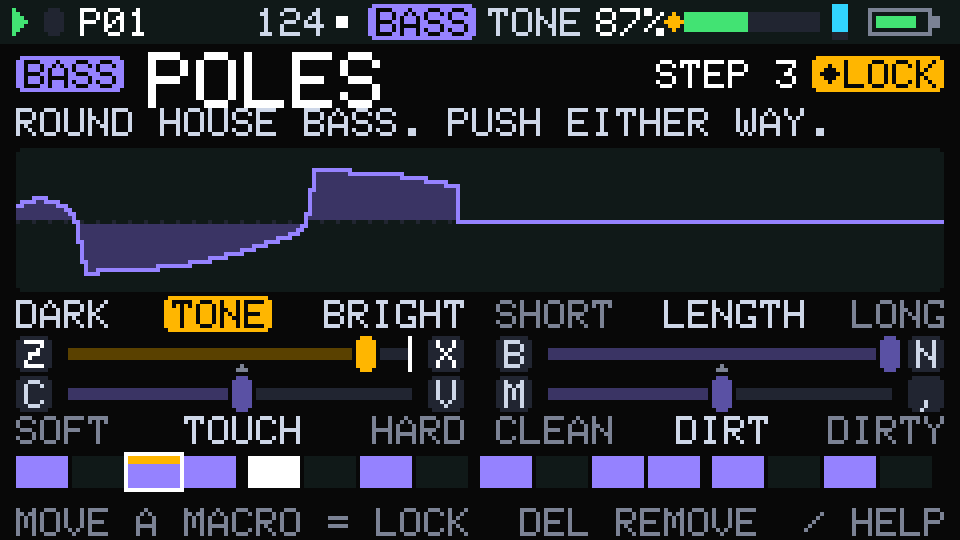
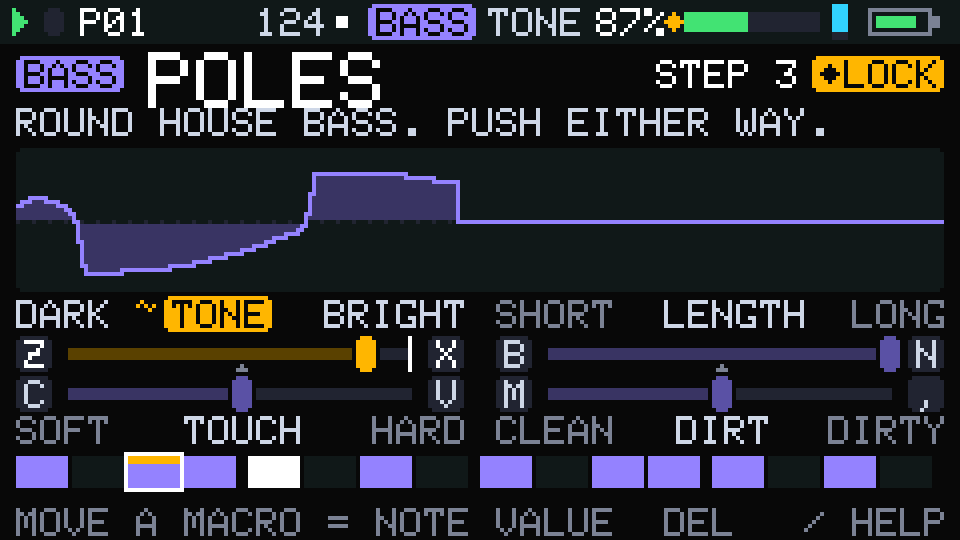
Instrument page: motion recording, sliders that follow, clear-motion gesture
- Recording: with record on and the transport running, moving a macro (keys,
  the lab) makes it live in the engine; the UI snapshots the pattern at the
  first move ("RECORDED MOTION"), so a pass is one undo unit with its notes.
  A live macro's name chip and handle are drawn in the record colour.
- While a pattern with motion plays, the sliders follow the engine's heard
  positions (EngineStatus::macroPos) with the base as the white mark; stopped,
  the page shows the base. A macro with motion in the shown pattern has an
  amber ~ by its name, also when stopped.
- Hold DEL + one of a macro's keys: that macro's values leave every note of
  the selected track in the shown pattern (WriteTrack, toast, CTRL+Z).
- STEP EDIT on an instrument track: the field is MOVE (marks for the macros
  the note has values of, the focused macro's value; its pad again: the next).
- Help rows and explain texts; screenshots docs/ux/motion-*.png,
  groove-motion.png, step-edit-motion.png (host/ui_scripts/motion.txt).
- itest_ui_instrument: motion on the page, recording pass and its undo, the
  clear gesture, under all three key-matrix models.

Claude-Session: https://claude.ai/code/session_0184BPLkX1vesFQsqL6SSkXY

diff --git a/host/itests/itest_ui_instrument.cpp b/host/itests/itest_ui_instrument.cpp
@@ -16,6 +16,10 @@
 //                 macro, one per macro (both keys: the default), in whole levels
 //                 of 63; DEL removes the focused macro's, then all; the STEP EDIT
 //                 MOTION field (its pad again: the next macro)
+//   motion        while playing the sliders follow the engine (the base stays);
+//                 a move of a macro with motion only moves its base; record on +
+//                 a held macro key = live (written into the notes passed, one
+//                 undo unit); hold DEL + a macro key clears its motion (undo)
 //   sweep         SHIFT+[ ] moves the bass's macro 1 (CLASSIC: the cutoff)
 //   help          key labels and explain texts of the page and its SHIFT layer
 #include <cstdio>
@@ -317,6 +321,82 @@ static void testLocks() {
   tap("space");
 }
 
+// Motion on the page: the sliders follow the engine while the pattern plays (the
+// base stays), the clear gesture (hold DEL + a macro key), a recording pass of a
+// moved macro (live: the chip in the record colour, written into the notes, one
+// undo unit).
+static void testMotion() {
+  newProjectOnBass();
+  const int p0 = MAC(kTrackBass, 0), p1 = MAC(kTrackBass, 1);
+  // two notes with their own OPEN, set by hand (hold the step, tap the macro key)
+  down("1"); R->run(300);
+  for (int i = 0; i < 20; ++i) tap("z");
+  up("1");
+  down("5"); R->run(300);
+  for (int i = 0; i < 20; ++i) tap("x");
+  up("5");
+  const int lo = R->step(kTrackBass, 0).macroValue(0), hi = R->step(kTrackBass, 4).macroValue(0);
+  CHECK(lo < p0 && hi > p0);
+  CHECK_EQ(R->ui.motionMask(kTrackBass), 1);
+  CHECK_EQ(R->ui.shownMacro(kTrackBass, 0), p0);  // stopped: the page shows the base
+  // playing: the slider follows the engine; the base does not move
+  tap("space");
+  int seenLo = 999, seenHi = -1, follow = 0, frames = 0;
+  for (int f = 0; f < 120; ++f) {
+    R->run(33);
+    const int v = R->ui.shownMacro(kTrackBass, 0);
+    seenLo = v < seenLo ? v : seenLo;
+    seenHi = v > seenHi ? v : seenHi;
+    ++frames;
+    // (the page shows the status of its last frame: within one frame's movement, ~11)
+    follow += std::abs(v - int(engine_detail::macroPosition(kTrackBass, 0) + 0.5f)) <= 16;
+  }
+  CHECK(seenLo <= lo + 2 && seenHi >= hi - 2);
+  CHECK(follow >= frames - 2);
+  CHECK_EQ(MAC(kTrackBass, 0), p0);
+  CHECK_EQ(R->ui.shownMacro(kTrackBass, 1), p1);  // no motion: its position
+  // a move of OPEN while the motion owns it: only its base
+  tap("x");
+  CHECK_EQ(MAC(kTrackBass, 0), p0 + 2);
+  // record on: a moved macro is live (heard, written into the notes it passes)
+  tap("ent");
+  down("v");
+  R->run(2500);                                   // more than a bar: every note passes
+  CHECK(R->ui.macroLive(kTrackBass, 1));
+  R->frame();                                     // drawn: BITE's chip in the record colour
+  up("v");
+  CHECK(R->step(kTrackBass, 0).hasMacro(1) && R->step(kTrackBass, 4).hasMacro(1));
+  CHECK(!R->step(kTrackBass, 2).hasExt());        // no values on empty steps
+  CHECK(R->ui.undoAvailable());
+  tap("ent");                                     // record off: the pass ends, BITE plays its new motion
+  R->run(100);
+  CHECK(!R->ui.macroLive(kTrackBass, 1));
+  CHECK_EQ(R->ui.motionMask(kTrackBass), 3);
+  ctrl("z");                                      // the pass is one undo unit
+  R->run(100);
+  CHECK(!R->step(kTrackBass, 0).hasMacro(1) && !R->step(kTrackBass, 4).hasMacro(1));
+  CHECK(R->step(kTrackBass, 0).hasMacro(0) && R->step(kTrackBass, 4).hasMacro(0));   // the hand-set ones stay
+  // clear OPEN's motion: hold DEL, tap one of its keys
+  down("del");
+  tap("z");
+  up("del");
+  R->run(50);
+  CHECK(toastHas("MOTION CLEARED"));
+  CHECK_EQ(R->ui.motionMask(kTrackBass), 0);
+  CHECK(!R->step(kTrackBass, 0).hasExt() && !R->step(kTrackBass, 4).hasExt());
+  CHECK(R->step(kTrackBass, 0).on());             // the notes stay
+  R->run(400);
+  CHECK_EQ(R->ui.shownMacro(kTrackBass, 0), MAC(kTrackBass, 0));
+  down("del"); tap("z"); up("del");
+  CHECK(toastHas("NO MOTION"));
+  ctrl("z");                                      // undo brings the values back
+  R->run(100);
+  CHECK(R->step(kTrackBass, 0).hasMacro(0) && R->step(kTrackBass, 4).hasMacro(0));
+  tap("space");
+  R->run(100);
+  CHECK_EQ(R->ui.shownMacro(kTrackBass, 0), MAC(kTrackBass, 0));   // stopped: the base again
+}
+
 static void testSweep() {
   newProjectOnBass();
   tap("`");
@@ -350,7 +430,7 @@ static void testHelp() {
   tap("x");
   R->ui.explainText(title, &l1, &l2);
   CHECK(std::strcmp(title, "x: OPEN UP") == 0 || std::strstr(title, "OPEN UP") != nullptr);
-  CHECK(std::strstr(l2, "LOCK") != nullptr);
+  CHECK(std::strstr(l2, "NOTE VALUE") != nullptr);
   tap(".");
   R->ui.explainText(title, &l1, &l2);
   CHECK(std::strstr(title, "NEXT INSTRUMENT") != nullptr);
@@ -384,6 +464,7 @@ int main() {
     testInstrumentSteps();
     testClassic();
     testLocks();
+    testMotion();
     testSweep();
     testHelp();
   }

diff --git a/lib/pg/src/pg/ui/ui_draw.cpp b/lib/pg/src/pg/ui/ui_draw.cpp
@@ -516,7 +516,7 @@ void Ui::drawStepEdit(Framebuffer& fb) {
       g.text(fx + 3, 50, key, LINE);
       continue;
     }
-    const char* fname = (k == kFGate && drum) ? "PTCH" : kFieldNames[k];
+    const char* fname = (k == kFGate && drum) ? "PTCH" : (k == kFLock && instrumentIdOf(t) ? "MOVE" : kFieldNames[k]);
     const bool selF = k == stepField_;
     g.rrect(fx, 48, 27, 37, selF ? RAISED : BG);
     if (selF) g.rframe(fx, 48, 27, 37, WHITE);
@@ -549,7 +549,7 @@ void Ui::drawStepEdit(Framebuffer& fb) {
           const int f = focusIndexFor(t);
           const int fm = isMacroIndex(f) ? f - kMacroIndex0 : 0;
           for (int m = 0; m < kTrackMacros; ++m)
-            g.rect(fx + 5 + m * 5, 64, 4, 2, s.hasMacro(m) ? uint8_t(AMBER) : (m == fm ? uint8_t(LINE) : uint8_t(RAISED)));
+            g.rect(fx + 10 + m * 4, 52, 3, 3, s.hasMacro(m) ? uint8_t(AMBER) : (m == fm ? uint8_t(TEXT) : uint8_t(LINE)));
           const ParamInfo* info = trackInfo(t, kMacroIndex0 + fm);
           char nm[6], v[kValueTextCap];
           if (info) upperCopy(info->name, nm, 5);
@@ -596,7 +596,7 @@ void Ui::drawStepEdit(Framebuffer& fb) {
   x = g.text(4, 127, "TAP STEP", WHITE);
   x = g.text(x, 127, " COPY HERE  ", DIM);
   x = g.text(x, 127, "DEL", WHITE);
-  g.text(x, 127, " NO LOCK", DIM);
+  g.text(x, 127, instrumentIdOf(t) ? " CLEAR" : " NO LOCK", DIM);
   footerRight(g, "/ HELP", DIM);
 }
 
@@ -780,6 +780,7 @@ void Ui::drawInstrument(Framebuffer& fb) {
   }
   drawScope(fb);
   // the four macros
+  const uint8_t motion = motionMask(t);
   for (int m = 0; m < kTrackMacros; ++m) {
     const int cx0 = kCellX[m / 2], cy0 = kLabelY[m % 2], w = kCellW;
     const int kLo = kKNote0 + 2 * m, kHi = kLo + 1;
@@ -799,9 +800,11 @@ void Ui::drawInstrument(Framebuffer& fb) {
     const bool f = !focus_.global && focus_.track == t && focus_.index == kMacroIndex0 + m;
     const bool locked = held && hs.hasMacro(m);
     const bool moving = macroMoving(m);
-    const bool lit = f || moving || locked;
-    const int v = macroValue(t, m);
-    const int shown = locked ? hs.macroValue(m) : v;
+    const bool live = macroLive(t, m);              // motion recording: the hand is written into the notes
+    const bool lit = f || moving || locked || live;
+    const int v = macroValue(t, m);                  // the base
+    const int heard = shownMacro(t, m);              // the motion moves it while playing
+    const int shown = locked ? hs.macroValue(m) : heard;
     // the label row: low end, the macro's name, high end
     char nm[8], lab[10];
     fitText(nm, mc.name, 6);
@@ -812,10 +815,15 @@ void Ui::drawInstrument(Framebuffer& fb) {
     const int ncx = (mc.lo[0] || mc.hi[0]) ? (loEnd + hiStart) / 2 : cx0 + w / 2;
     if (lit) {
       const int nw = int(std::strlen(nm)) * 6 + 3;
-      g.rrect(ncx - nw / 2, cy0 - 1, nw, 9, locked ? uint8_t(AMBER) : (moving ? uint8_t(WHITE) : col));
+      g.rrect(ncx - nw / 2, cy0 - 1, nw, 9, live ? uint8_t(RED) : (locked ? uint8_t(AMBER) : (moving ? uint8_t(WHITE) : col)));
       g.textC(ncx, cy0, nm, BG);
     } else {
       g.textC(ncx, cy0, nm, TEXT);
+    }
+    // motion: notes of this pattern carry their own values of this macro
+    if ((motion >> m) & 1u) {
+      const int mx = ncx - (int(std::strlen(nm)) * 6 + 3) / 2 - 7;
+      if (mx >= loEnd + 1) g.text(mx, cy0, "~", AMBER);
     }
     // the keys as caps at the ends: the left one moves toward the left label
     const bool d1 = isHeld(kLo) && rec_[kLo].act == kActMacro, d2 = isHeld(kHi) && rec_[kHi].act == kActMacro;
@@ -833,9 +841,9 @@ void Ui::drawInstrument(Framebuffer& fb) {
     const int dx = tx0 + (macro::startByte(mc) * tl + 127) / 255;
     g.pixel(dx, sy + 7, DIM);
     g.rect(dx - 1, sy + 8, 3, 1, DIM);
-    if (locked) g.rect(tx0 + (v * tl + 127) / 255, sy, 1, 9, WHITE);   // where it is when not locked
+    if (locked || shown != v) g.rect(tx0 + (v * tl + 127) / 255, sy, 1, 9, WHITE);   // the base, where it differs
     // the handle: a cap with a dark outline so it reads over the fill
-    const uint8_t hc = locked ? uint8_t(AMBER) : (moving ? uint8_t(WHITE) : (f ? col : tc(t, kMid)));
+    const uint8_t hc = live ? uint8_t(RED) : (locked ? uint8_t(AMBER) : (moving ? uint8_t(WHITE) : (f ? col : tc(t, kMid))));
     g.rect(hx - 3, sy, 7, 9, BG);
     g.rrect(hx - 2, sy, 5, 9, hc);
   }
@@ -847,7 +855,7 @@ void Ui::drawInstrument(Framebuffer& fb) {
     x = g.text(x, 127, " INSTRUMENT  HOLD STEP+KEY ", DIM);
     g.text(x, 127, PG_ICON_LOCK, AMBER);
   } else {
-    g.text(4, 127, "MOVE A MACRO = LOCK  DEL REMOVE", DIM);
+    g.text(4, 127, "MOVE A MACRO = NOTE VALUE  DEL", DIM);
   }
   footerRight(g, "/ HELP", DIM);
   if (listUntil_) drawInstrumentList(fb);

diff --git a/lib/pg/src/pg/ui/ui_help.cpp b/lib/pg/src/pg/ui/ui_help.cpp
@@ -165,8 +165,8 @@ const char* const kLegends[][5] = {
     {CA "1-..4+" CD " MACRO DOWN/UP. HOLD: SWEEP",
      CW "BOTH KEYS" CD " OF A PAIR: ITS DEFAULT",
      CT UP_ICON_TXT CD " " CT "NI" CD " INSTRUMENT. CTRL+Z GOES BACK",
-     CW "HOLD STEP" CD " + MACRO KEY = LOCK THERE",
-     CA "-+" CD " THE LAST MACRO, FROM ANY VIEW"},
+     CW "HOLD STEP" CD " + MACRO KEY = NOTE'S VALUE",
+     CW "DEL" CD "+KEY CLEARS MOTION " CA "-+" CD " LAST"},
     {CW "FN" CD "+PAD: MUTE ON/OFF",
      CW "FN" CD "+NOTE KEY: SOLO THAT TRACK",
      CD "SAME KEY AGAIN: RESTORE MUTES", "", ""},
@@ -369,7 +369,7 @@ static bool explainLayer(const Ui& ui, int table, int k, char* title, const char
         *o = 0;
         cat(cat(cat(o, ": "), s->macros[note / 2].name), (note & 1) ? " +16" : " -16");
         *l1 = "COARSE: 16 OF 255 PER TAP OR REPEAT.";
-        *l2 = "A STEP HELD: THE LOCK, COARSE.";
+        *l2 = "A STEP HELD: ITS VALUE, 4 LEVELS.";
         return true;
       }
       [[fallthrough]];
@@ -461,8 +461,16 @@ static void explain(const Ui& ui, int table, int k, char* title, const char** l1
         return;
       }
       cat(cat(cat(o, ": "), s->macros[m].name), (note & 1) ? " UP" : " DOWN");
-      *l1 = "TAP NUDGES, HOLD SWEEPS, SHIFT: COARSE.";
-      *l2 = "BOTH KEYS: DEFAULT. STEP HELD: LOCK.";
+      if (ui.heldStep() >= 0) {
+        *l1 = "THE HELD NOTE'S OWN VALUE: THE MACRO";
+        *l2 = "GLIDES TO IT FROM NOTE TO NOTE.";
+      } else if (ui.recOn() && ui.playing()) {
+        *l1 = "RECORDING: MOVED, IT GOES INTO EVERY";
+        *l2 = "NOTE IT PASSES (RED NAME: LIVE).";
+      } else {
+        *l1 = "TAP NUDGES, HOLD SWEEPS, SHIFT: COARSE.";
+        *l2 = "BOTH: DEFAULT. STEP HELD: NOTE VALUE.";
+      }
       return;
     }
     switch (k) {
@@ -482,8 +490,9 @@ static void explain(const Ui& ui, int table, int k, char* title, const char** l1
         *l2 = "AGAIN: THE NEXT ONE (; BACK).";
         return;
       case kKDel:
-        cat(title, "REMOVE LOCK");
-        *l1 = "WITH A STEP HELD: REMOVES ITS LOCK.";
+        cat(title, "CLEAR MOTION / VALUE");
+        *l1 = "HELD + A MACRO KEY: CLEARS ITS MOTION";
+        *l2 = "HERE. STEP HELD: THE NOTE'S VALUE.";
         return;
       case kKL:
         cat(title, ui.devMode() ? "DEV: PARAMETER PAGES" : "NOT USED HERE");

diff --git a/lib/pg/src/pg/ui/ui.cpp b/lib/pg/src/pg/ui/ui.cpp
@@ -172,6 +172,27 @@ bool Ui::clearStepOwn(int t, Step& s) const {
   return true;
 }
 
+uint8_t Ui::motionMask(int t) const {
+  if (!instrumentIdOf(t)) return 0;
+  const int len = trackLen(t) < patternLen() ? trackLen(t) : patternLen();
+  uint32_t w = 0;
+  for (int i = 0; i < len; ++i) {
+    const Step s = stepAt(t, i);
+    if (s.on()) w |= s.extWord();
+  }
+  uint8_t mask = 0;
+  for (int m = 0; m < kTrackMacros; ++m)
+    if ((w >> (6 * m)) & 63u) mask = uint8_t(mask | (1u << m));
+  return mask;
+}
+
+int Ui::shownMacro(int t, int m) const {
+  t &= 7;
+  m &= 3;
+  if (playing_ && ((st_.motion[t] >> m) & 1u) && !((st_.live[t] >> m) & 1u)) return st_.macroPos[t][m];
+  return macroValue(t, m);
+}
+
 bool Ui::patternUsed(int pat) const {
   const Pattern& P = proj_->patterns[pat & 15];
   for (int t = 0; t < kNumTracks; ++t) {
@@ -267,6 +288,9 @@ void Ui::setMacro(int t, int m, int v) {
   pendMac_[t][m] = uint8_t(v);
   pendMacFrame_[t][m] = frame_;
   pendMacMask_[t] |= uint8_t(1u << m);
+  // Record on and playing: the move is recorded into the notes it passes (the engine
+  // writes them; one undo unit with the pass's notes).
+  if (recOn_ && playing_ && instrumentOf(t)) undoForRecording("RECORDED MOTION");
   send(cmd(CmdType::SetMacro, t, m, v));
   ++serial_;
 }
@@ -333,6 +357,11 @@ void Ui::macroKeyDown(int k, int n, bool shift) {
   }
   const int m = n / 2, dir = (n & 1) ? 1 : -1;
   if (m >= s->numMacros) return;
+  if (heldStep_ < 0 && isHeld(kKDel)) {   // DEL held + a macro key: clear that macro's motion
+    rec_[k] = KeyRec{kActNone, 0, 0, 0};
+    clearMotion(m);
+    return;
+  }
   trackFocus_[sel_] = uint8_t(kMacroIndex0 + m);
   focus_ = ValueRef{false, sel_, uint8_t(kMacroIndex0 + m)};
   rec_[k] = KeyRec{kActMacro, uint8_t(m), 0, 0};

diff --git a/lib/pg/src/pg/ui/ui_edit.cpp b/lib/pg/src/pg/ui/ui_edit.cpp
@@ -128,11 +128,40 @@ void Ui::undoForStep(int t, int idx, const char* what) {
 // writes the step itself, so the UI snapshots when it sends the note. The
 // snapshot is of the playing pattern; a note quantised onto step 1 of the NEXT
 // pattern (pressed just before a pattern change) is not in it.
-void Ui::undoForRecording() {
+void Ui::undoForRecording(const char* label) {
   if (!recGest_) recGest_ = ++gestSeq_;
   const uint32_t g = heldStep_ >= 0 ? heldGest_ : recGest_;
   if (undoCovers(g)) return;
-  snapshotUndo(pat_, "RECORDED NOTES", g);
+  snapshotUndo(pat_, label, g);
+}
+
+// Hold DEL + a macro key on the instrument page: that macro's values leave every
+// note of the selected track in the shown pattern (one undo unit, a WriteTrack).
+void Ui::clearMotion(int m) {
+  const int t = sel_;
+  const macro::MacroSet* s = instrumentOf(t);
+  if (!s || m < 0 || m >= s->numMacros) return;
+  char buf[40];
+  char* o = cat(buf, s->macros[m].name);
+  if (!((motionMask(t) >> m) & 1u)) {
+    bool any = false;   // (beyond the track's length counts too)
+    for (int i = 0; i < kMaxSteps; ++i) any |= stepAt(t, i).hasMacro(m);
+    if (!any) {
+      cat(o, " HAS NO MOTION HERE");
+      toast(buf, 0);
+      return;
+    }
+  }
+  if (writeBusy_) { toast("BUSY - TRY AGAIN", 0); return; }
+  o = cat(o, " MOTION CLEARED");
+  snapshotUndo(pat_, buf);
+  const int spare = 1 - undoIdx_;
+  TrackPattern& d = snap_[spare].tracks[t];
+  d = snap_[undoIdx_].tracks[t];   // the track as shown
+  for (Step& st : d.steps) st.clearMacro(m);
+  postWrite(pat_, t, spare);
+  cat(o, "  CTRL+Z UNDO");
+  toast(buf, 1);
 }
 
 bool Ui::postWrite(int pat, int track, int buf) {

diff --git a/lib/pg/src/pg/ui/ui.h b/lib/pg/src/pg/ui/ui.h
@@ -107,6 +107,12 @@ class Ui {
   // parameter lock, on an instrument track the note's value of that macro
   // (index kMacroIndex0 + m); -1 = none.
   int stepOwnValue(int t, const Step& s, int index) const;
+  // Motion (UX.md 10.3): bit m = a note of track t in the shown pattern has its own
+  // value of macro m. Where the page shows macro m: the engine's heard position
+  // while the playing pattern's motion moves it, else macroValue().
+  uint8_t motionMask(int t) const;
+  int shownMacro(int t, int m) const;
+  bool macroLive(int t, int m) const { return playing_ && ((st_.live[t & 7] >> (m & 3)) & 1u); }
   bool instrumentPage() const;     // SOUND shows the player's page (instrument / classic), not parameter pages
   bool listVisible() const { return listUntil_ != 0; }   // the instrument list overlay
   // Developer mode (desktop --dev / --lab): SOUND can also show the bare parameter
@@ -230,7 +236,7 @@ class Ui {
   uint32_t gestureNow() const;
   bool undoCovers(uint32_t gest) const;
   void undoForStep(int t, int idx, const char* what);
-  void undoForRecording();
+  void undoForRecording(const char* label = "RECORDED NOTES");
   void undo();
   void cutCopyTrack(bool cut);
   void cutCopyPattern(bool cut);
@@ -291,6 +297,7 @@ class Ui {
   void editField(int dir, int mag, bool shift);
   void editLock(int dir, int mag, bool shift);
   void stepMacroEdit(int t, Step& s, int m, int dir, int mag, bool shift);
+  void clearMotion(int m);
   bool clearStepOwn(int t, Step& s) const;
   void setValue(const ValueRef& ref, int v);
   const ParamInfo* infoFor(const ValueRef& ref) const;
